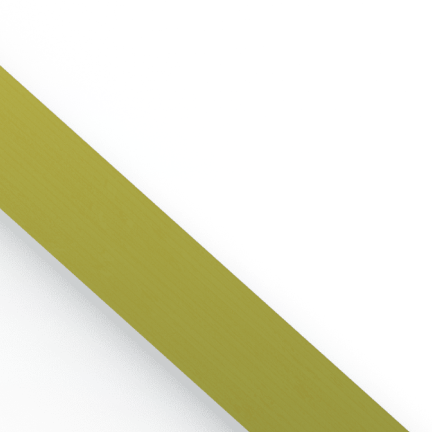
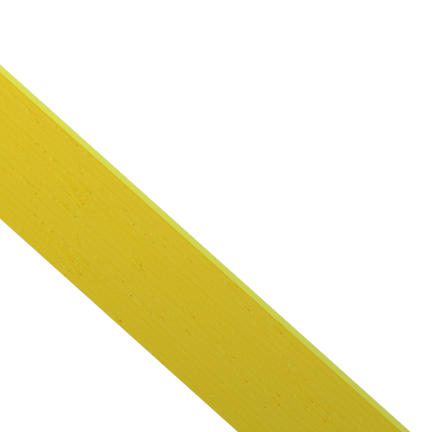
feat: change background for live preview, stickers and share screens (#305)

diff --git a/lib/photobooth/widgets/photobooth_background.dart b/lib/photobooth/widgets/photobooth_background.dart
@@ -5,10 +5,40 @@ class PhotoboothBackground extends StatelessWidget {
 
   @override
   Widget build(BuildContext context) {
-    return Image.asset(
-      'assets/backgrounds/wood_background.png',
-      fit: BoxFit.cover,
-      filterQuality: FilterQuality.high,
+    final size = MediaQuery.of(context).size;
+    return Stack(
+      fit: StackFit.expand,
+      children: [
+        Image.asset(
+          'assets/backgrounds/photobooth_background.jpg',
+          fit: BoxFit.cover,
+          filterQuality: FilterQuality.high,
+        ),
+        Positioned(
+          left: 50,
+          bottom: size.height * 0.2,
+          child: Image.asset(
+            'assets/backgrounds/red_box.png',
+            height: 150,
+          ),
+        ),
+        Positioned(
+          right: -50,
+          top: size.height * 0.1,
+          child: Image.asset(
+            'assets/backgrounds/blue_circle.png',
+            height: 150,
+          ),
+        ),
+        Positioned(
+          right: 50,
+          bottom: size.height * 0.1,
+          child: Image.asset(
+            'assets/backgrounds/yellow_plus.png',
+            height: 150,
+          ),
+        ),
+      ],
     );
   }
 }

diff --git a/test/stickers/view/stickers_page_test.dart b/test/stickers/view/stickers_page_test.dart
@@ -101,6 +101,19 @@ void main() async {
       when(() => stickersBloc.state).thenReturn(StickersState());
     });
 
+    testWidgets('renders PhotoboothBackground', (tester) async {
+      await tester.pumpApp(
+        MultiBlocProvider(
+          providers: [
+            BlocProvider.value(value: photoboothBloc),
+            BlocProvider.value(value: stickersBloc),
+          ],
+          child: StickersView(),
+        ),
+      );
+      expect(find.byType(PhotoboothBackground), findsOneWidget);
+    });
+
     testWidgets('renders PreviewImage', (tester) async {
       await tester.pumpApp(
         MultiBlocProvider(

diff --git a/lib/stickers/view/stickers_page.dart b/lib/stickers/view/stickers_page.dart
@@ -35,11 +35,7 @@ class StickersView extends StatelessWidget {
       body: Stack(
         fit: StackFit.expand,
         children: [
-          Image.asset(
-            'assets/backgrounds/wood_background.png',
-            fit: BoxFit.cover,
-            filterQuality: FilterQuality.high,
-          ),
+          const PhotoboothBackground(),
           Center(
             child: AspectRatio(
               aspectRatio: isMobile ? 3 / 4 : 4 / 3,
